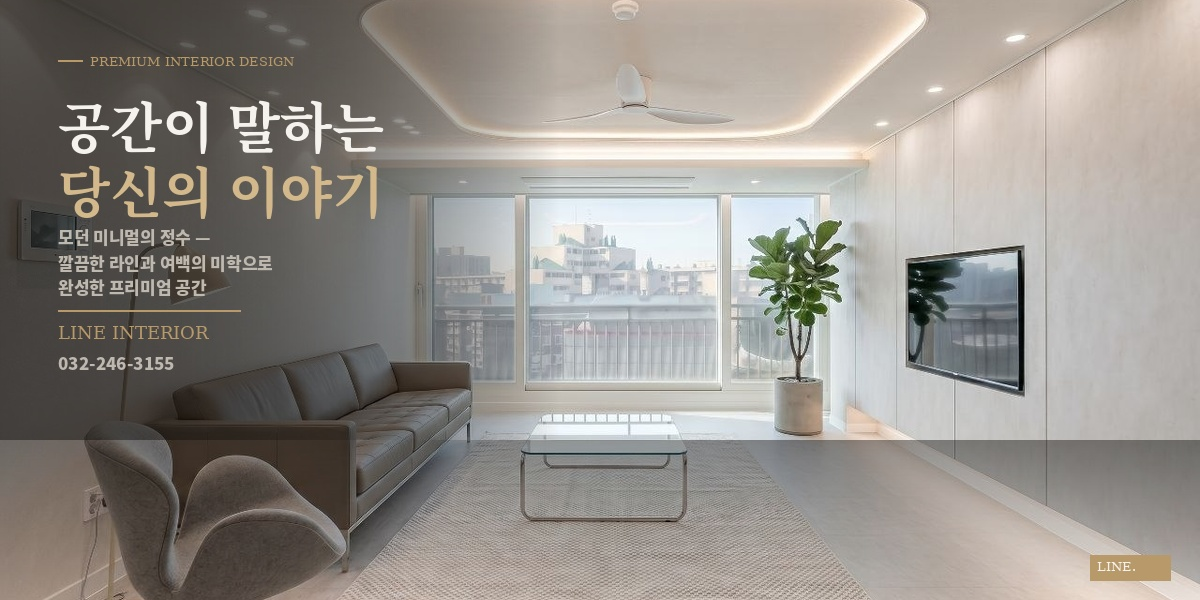
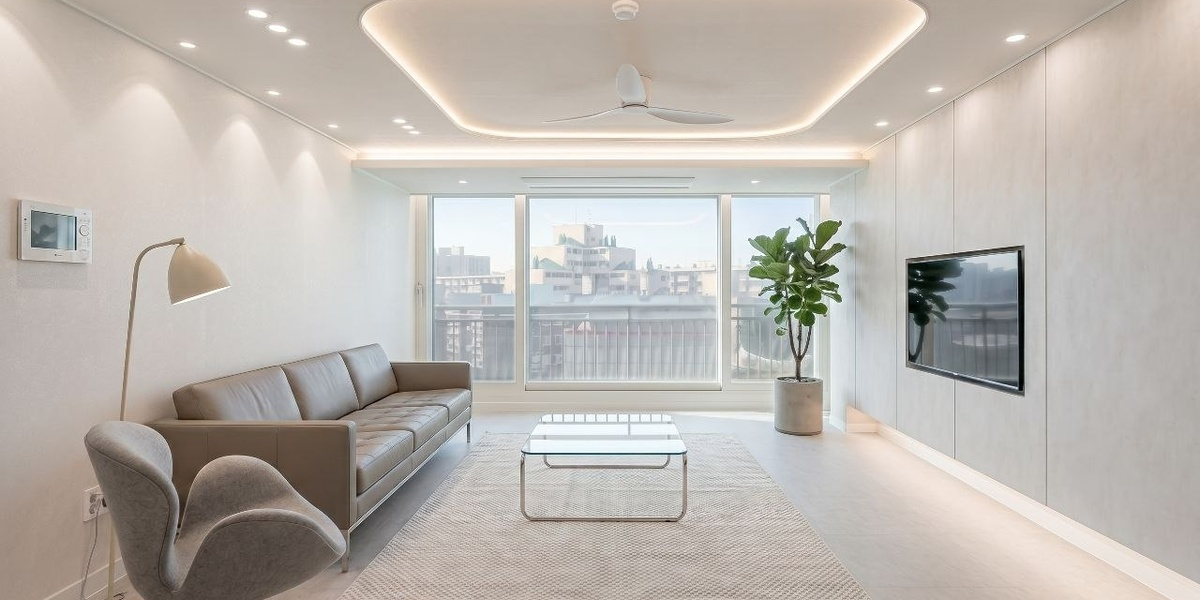
Add files via upload

diff --git a/index.html b/index.html
@@ -169,6 +169,60 @@ nav {
 }
 .hero-img-placeholder svg { opacity: 0.25; }
 
+/* ─── 히어로 이미지 텍스트 오버레이 ─── */
+.hero-img-overlay {
+  position: absolute; inset: 0;
+  background: linear-gradient(
+    to right,
+    rgba(13,12,10,0.72) 0%,
+    rgba(13,12,10,0.38) 50%,
+    rgba(13,12,10,0.05) 100%
+  );
+  display: flex; flex-direction: column;
+  justify-content: center;
+  padding: clamp(16px, 4%, 52px);
+  pointer-events: none;
+}
+.hero-img-tag {
+  display: inline-flex; align-items: center; gap: 8px;
+  font-size: clamp(9px, 1vw, 11px);
+  letter-spacing: 0.18em; color: var(--gold);
+  margin-bottom: clamp(8px, 1.5%, 16px);
+}
+.hero-img-tag::before {
+  content: ''; display: block;
+  width: clamp(14px, 2vw, 28px); height: 0.5px;
+  background: var(--gold);
+}
+.hero-img-title {
+  font-family: var(--font-display);
+  font-size: clamp(18px, 3vw, 48px);
+  font-weight: 300; line-height: 1.25;
+  color: var(--white); margin-bottom: clamp(6px, 1%, 12px);
+  letter-spacing: 0.02em;
+}
+.hero-img-title em { font-style: italic; color: var(--gold-light); }
+.hero-img-desc {
+  font-size: clamp(10px, 1vw, 13px);
+  color: rgba(200,196,188,0.9);
+  line-height: 1.8; margin-bottom: clamp(8px, 1.5%, 18px);
+  max-width: 28ch;
+}
+.hero-img-brand {
+  display: flex; flex-direction: column; gap: 3px;
+  padding-top: clamp(8px, 1.2%, 14px);
+  border-top: 0.5px solid rgba(184,154,106,0.4);
+}
+.hero-img-brand-name {
+  font-size: clamp(10px, 1vw, 13px);
+  letter-spacing: 0.12em; color: var(--gold);
+  font-family: var(--font-display);
+}
+.hero-img-brand-tel {
+  font-size: clamp(9px, 0.85vw, 12px);
+  color: rgba(190,184,175,0.8); letter-spacing: 0.06em;
+}
+
 /* ─── SECTION BASE ─── */
 .section { padding: 100px 80px; }
 .section-header { margin-bottom: 60px; }
@@ -514,9 +568,13 @@ footer {
   .hero { grid-template-columns: 1fr; min-height: auto; }
   .hero-left { padding: 60px 32px 48px; }
   .hero-left::before { display: none; }
-  .hero-right { height: 320px; }
+  .hero-right { height: 380px; }
   .hero-img-grid { grid-template-columns: 1fr 1fr; grid-template-rows: 1fr 1fr; }
   .hero-img-cell:first-child { grid-column: 1 / 3; }
+  .hero-img-overlay { padding: 20px 22px; }
+  .hero-img-title { font-size: clamp(16px, 4vw, 28px); }
+  .hero-img-desc { display: none; }
+  .hero-img-brand-tel { display: none; }
   .section { padding: 64px 32px; }
   .why-grid { grid-template-columns: 1fr; gap: 2px; }
   .why-bottom { grid-template-columns: 1fr; }
@@ -529,6 +587,11 @@ footer {
   .cases-grid { grid-template-columns: 1fr; }
   .form-row { grid-template-columns: 1fr; }
   .modal-gallery { grid-template-columns: 1fr 1fr; }
+  .hero-right { height: 300px; }
+  .hero-img-overlay { padding: 14px 16px; }
+  .hero-img-tag { display: none; }
+  .hero-img-title { font-size: clamp(14px, 5vw, 22px); }
+  .hero-img-brand-name { font-size: 11px; }
 }
 </style>
 </head>
@@ -577,6 +640,15 @@ footer {
       <div class="hero-img-cell">
         <img src="hero1.jpg" alt="라인 인테리어 메인 시공사례"
           style="width:100%;height:100%;object-fit:cover;display:block;">
+        <div class="hero-img-overlay">
+          <div class="hero-img-tag">PREMIUM INTERIOR DESIGN</div>
+          <div class="hero-img-title">공간이 말하는<br><em>당신의 이야기</em></div>
+          <div class="hero-img-desc">모던 미니멀의 정수 —<br>깔끔한 라인과 여백의 미학으로<br>완성한 프리미엄 공간</div>
+          <div class="hero-img-brand">
+            <div class="hero-img-brand-name">LINE INTERIOR</div>
+            <div class="hero-img-brand-tel">032-246-3155</div>
+          </div>
+        </div>
       </div>
       <div class="hero-img-cell">
         <img src="hero2.jpg" alt="라인 인테리어 주방 시공사례"